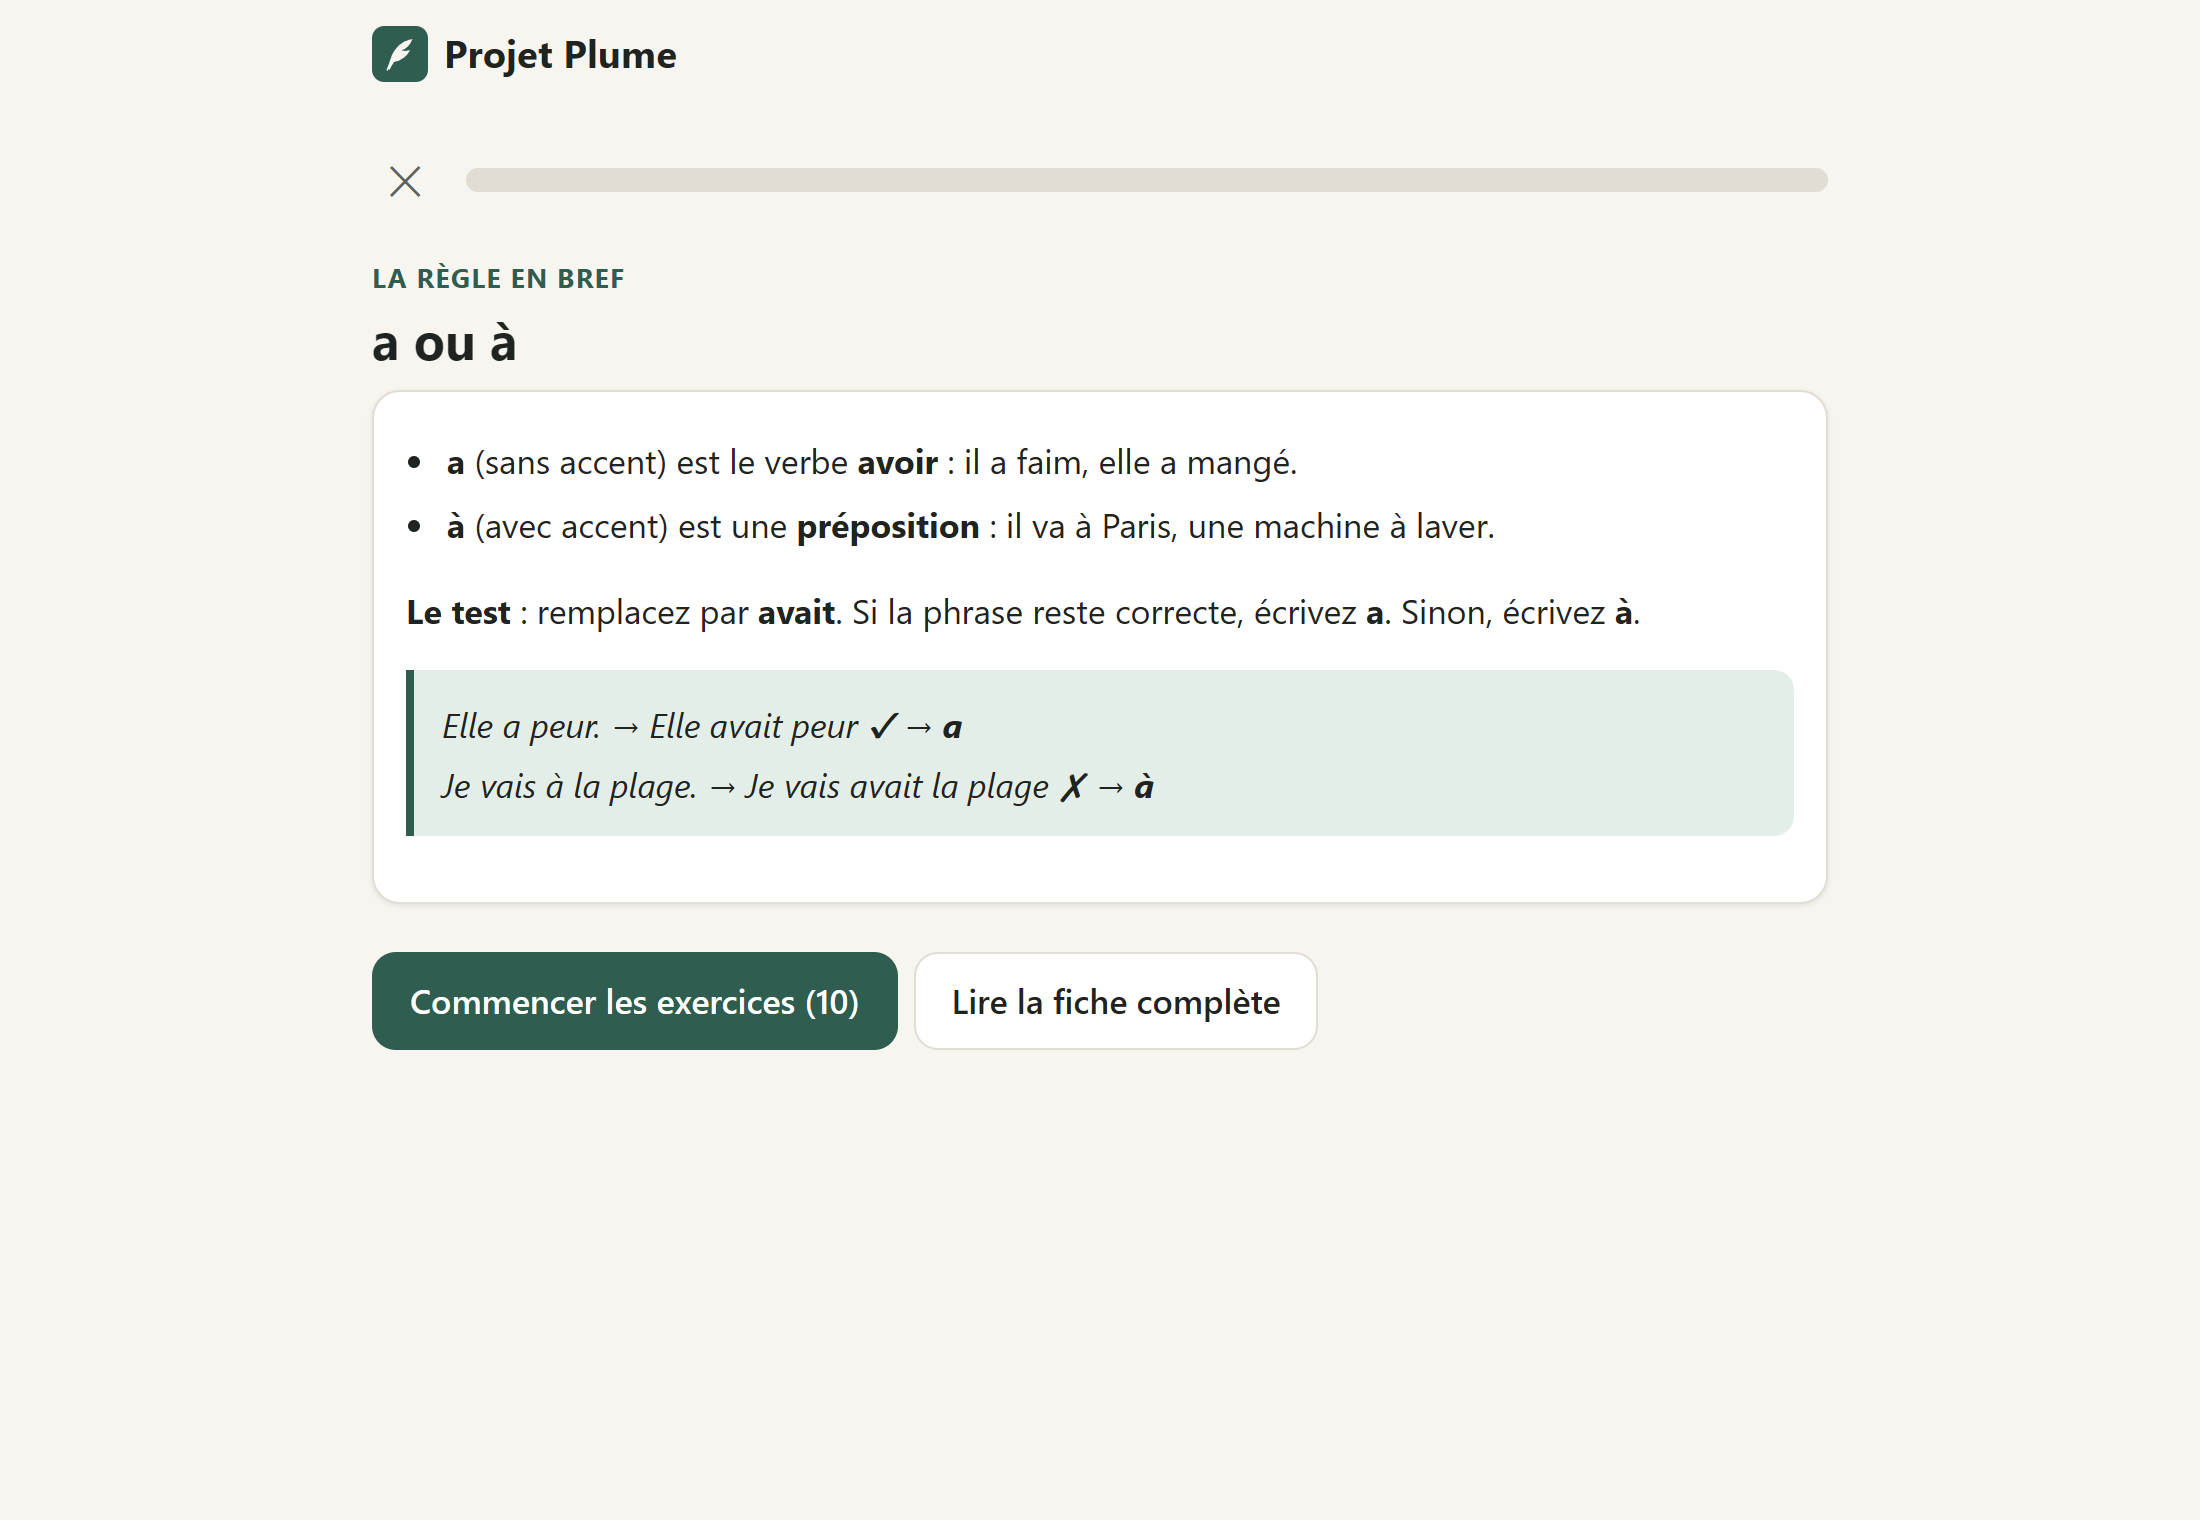
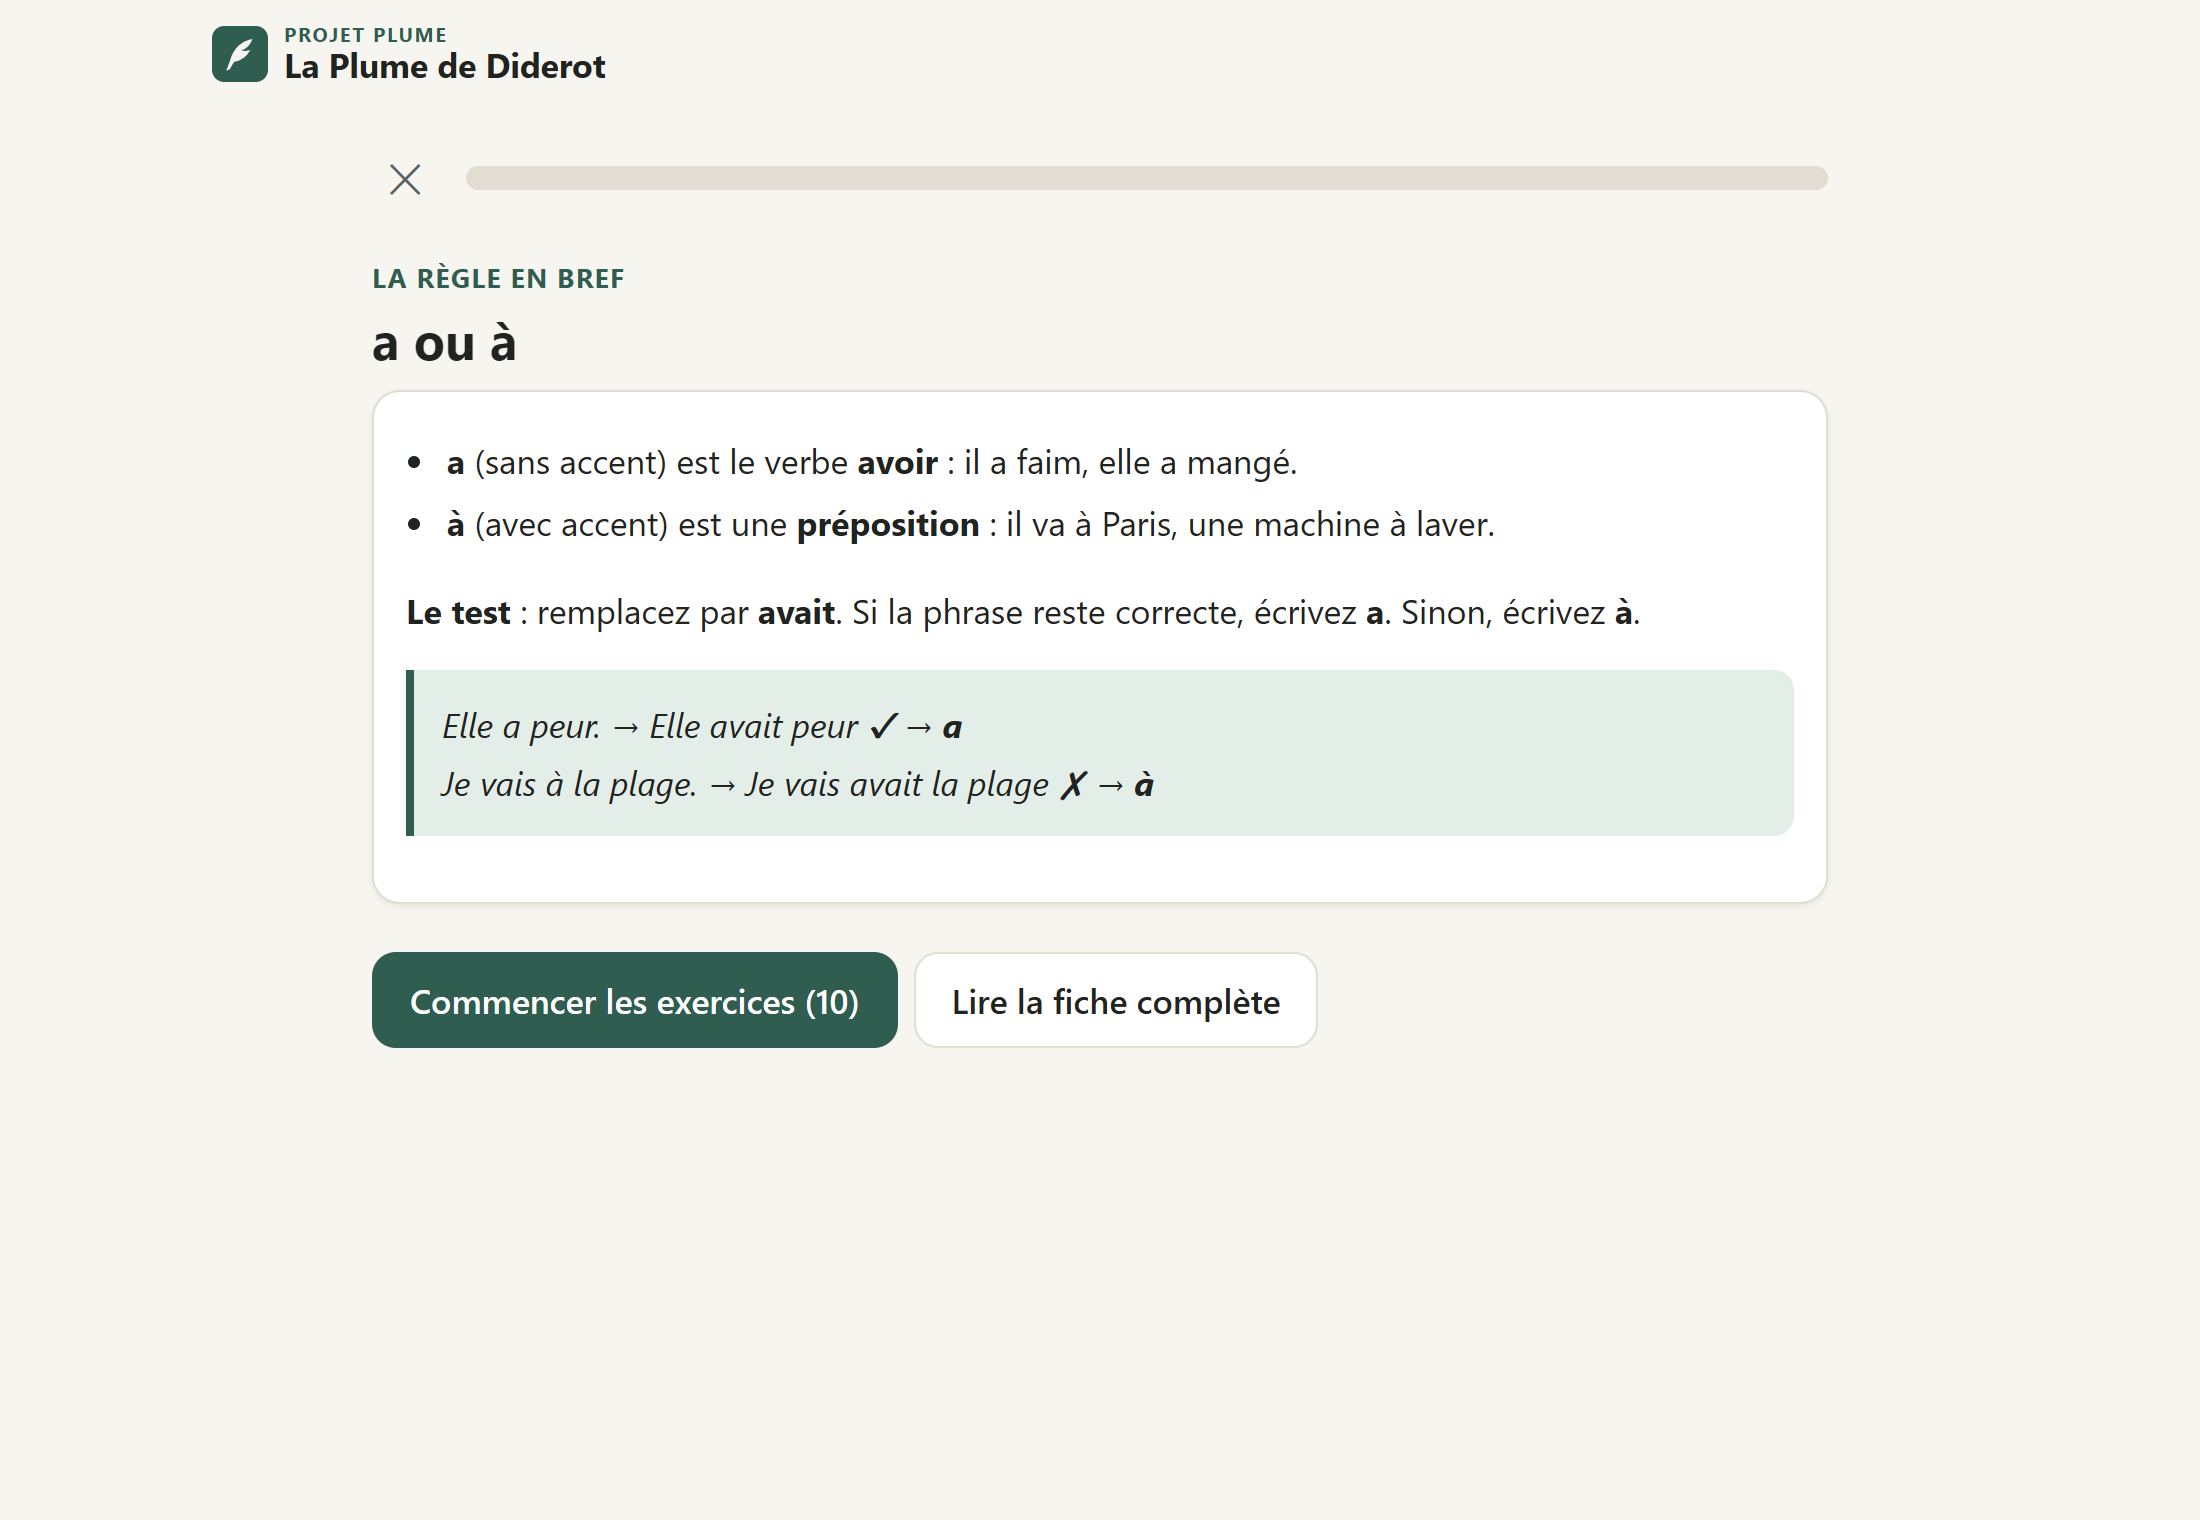
Nouveau nom : La Plume de Diderot, avec « Projet Plume » en surtitre
En-tête, titres des pages, partage (Open Graph, image), manifeste,
README et page du projet (avec « Pourquoi Diderot ? »). L'en-tête
s'élargit à 920 px sur grand écran pour garder les icônes du menu.

diff --git a/outils/generer_site.js b/outils/generer_site.js
@@ -90,14 +90,14 @@ page({
 // --- Cours ---
 page({
   chemin: "/cours",
-  titre: "Cours d'orthographe, de grammaire et de conjugaison — Projet Plume",
+  titre: "Cours d'orthographe, de grammaire et de conjugaison — La Plume de Diderot",
   description: "Tous les cours du Projet Plume par thème : homophones, accords, conjugaison, bien écrire. Fiches claires et exercices gratuits.",
   contenu: '<section class="cours"><h1>Cours</h1><p>Choisissez un thème. Chaque règle a une fiche et des exercices corrigés.</p>' + listeThemes() + "</section>",
 });
 STRUCTURE.categories.forEach((cat) => {
   page({
     chemin: "/cours/" + cat.id,
-    titre: cat.titre + " : règles et exercices — Projet Plume",
+    titre: cat.titre + " : règles et exercices — La Plume de Diderot",
     description: cat.description + " " + pluriel(reglesDe(cat).length, "règle") + " avec fiches et exercices gratuits.",
     contenu: '<section class="categorie"><nav class="ariane"><a href="/cours">Cours</a> › ' + esc(cat.titre) + "</nav><h1>" + esc(cat.titre) + "</h1><p>" + esc(cat.description) + "</p>"
       + cat.sous.map((s) => "<h2>" + esc(s.titre) + "</h2><ul>" + s.regles.map((id) => parId[id]).filter(Boolean).map(lienRegle).join("") + "</ul>").join("") + "</section>",
@@ -107,7 +107,7 @@ STRUCTURE.categories.forEach((cat) => {
 // --- Règles ---
 page({
   chemin: "/regles",
-  titre: "Toutes les règles d'orthographe et de grammaire — Projet Plume",
+  titre: "Toutes les règles d'orthographe et de grammaire — La Plume de Diderot",
   description: "Les " + REGLES.length + " fiches de règles du Projet Plume, classées par thème, à consulter librement.",
   contenu: '<section class="regles-index"><h1>Règles</h1><p>Toutes les fiches, à consulter sans faire d\'exercices.</p>'
     + STRUCTURE.categories.map((cat) => "<h2>" + esc(cat.titre) + "</h2>" + cat.sous.map((s) =>
@@ -125,7 +125,7 @@ REGLES.forEach((r) => {
     + (voisines.length ? "<h2>Règles liées</h2><ul>" + voisines.map(lienRegle).join("") + "</ul>" : "")
     + "</article>";
   const meta = {
-    titre: r.titre + " : règle et exercices — Projet Plume",
+    titre: r.titre + " : règle et exercices — La Plume de Diderot",
     description: (r.resume + " Fiche claire et " + pluriel(r.exercices.length, "exercice") + " corrigés, gratuits et sans inscription.").slice(0, 300),
     contenu,
   };
@@ -137,7 +137,7 @@ REGLES.forEach((r) => {
 // --- Pages de présentation ---
 page({ chemin: "/projet", titre: PAGES.projet.titre + " — le savoir libre, pour tous", description: PAGES.projet.description,
   contenu: '<article class="fiche page-projet">' + PAGES.projet.html + "</article>" });
-page({ chemin: "/progres", titre: PAGES.progression.titre + " — Projet Plume", description: PAGES.progression.description, indexable: false,
+page({ chemin: "/progres", titre: PAGES.progression.titre + " — La Plume de Diderot", description: PAGES.progression.description, indexable: false,
   contenu: '<section class="progres"><h1>Ma progression</h1>' + PAGES.progression.html + "</section>" });
 
 // --- Fichiers du site ---

diff --git a/contenu/pages.js b/contenu/pages.js
@@ -5,7 +5,7 @@
  */
 window.PLUME_PAGES = {
   accueil: {
-    titre: "Projet Plume — l'orthographe libre et gratuite",
+    titre: "La Plume de Diderot — l'orthographe libre et gratuite",
     description: "Entraînez-vous à l'orthographe, à la grammaire et à la conjugaison françaises gratuitement, sans compte ni publicité. Cours et exercices libres.",
     html: `<div class="presentation">
 <h1>Le savoir libre, pour tous</h1>
@@ -24,7 +24,7 @@ window.PLUME_PAGES = {
     description: "Le Projet Plume est un site libre et gratuit pour apprendre l'orthographe française : pas de compte, pas de publicité, aucune donnée collectée.",
     html: `<h1>Le Projet Plume</h1>
 <div class="fiche-texte">
-<p><strong>Le Projet Plume est un site libre et gratuit pour bien écrire le français.</strong> On y trouve des fiches de règles et des exercices d'orthographe, de grammaire et de conjugaison, du collège au niveau adulte.</p>
+<p><strong>La Plume de Diderot est le site du Projet Plume : un site libre et gratuit pour bien écrire le français.</strong> On y trouve des fiches de règles et des exercices d'orthographe, de grammaire et de conjugaison, du collège au niveau adulte.</p>
 
 <h2>Pourquoi ce projet ?</h2>
 <p>Bien écrire sert à tout : étudier, chercher un emploi, se faire comprendre. Ce savoir ne devrait pas dépendre d'un abonnement. Le Projet Plume part d'une idée simple : <strong>le savoir libre, pour tous</strong>.</p>
@@ -33,6 +33,9 @@ window.PLUME_PAGES = {
 <li><strong>Gratuit</strong> : tout est ouvert. Il n'y a ni abonnement, ni module payant, ni publicité.</li>
 <li><strong>Sans collecte de données</strong> : il n'y a pas de compte, pas de traceur, pas de statistiques de visite. Le site ne sait rien de vous.</li>
 </ul>
+
+<h2>Pourquoi « Diderot » ?</h2>
+<p>Au XVIII<sup>e</sup> siècle, Denis Diderot a dirigé avec d'Alembert l'<em>Encyclopédie</em>, qui voulait rassembler les connaissances de son temps et les mettre à la portée de tous. Le site lui emprunte cette idée : un savoir partagé, que chacun peut lire et enrichir.</p>
 
 <h2>Comment ça marche ?</h2>
 <ul>

diff --git a/gabarit.html b/gabarit.html
@@ -8,7 +8,7 @@
   <link rel="canonical" href="{{CANONIQUE}}">
   <meta name="robots" content="{{ROBOTS}}">
   <meta property="og:type" content="website">
-  <meta property="og:site_name" content="Projet Plume">
+  <meta property="og:site_name" content="La Plume de Diderot">
   <meta property="og:locale" content="fr_FR">
   <meta property="og:title" content="{{TITRE}}">
   <meta property="og:description" content="{{DESCRIPTION}}">
@@ -27,9 +27,9 @@
 </head>
 <body>
   <header class="barre">
-    <a href="/" class="logo" aria-label="Accueil">
+    <a href="/" class="logo" aria-label="La Plume de Diderot, accueil">
       <img src="/img/icone.svg" alt="" width="28" height="28">
-      <span>Projet Plume</span>
+      <span class="logo-texte"><span class="surtitre">Projet Plume</span><span class="logo-nom">La Plume de Diderot</span></span>
     </a>
     <nav id="onglets" class="onglets" aria-label="Navigation principale">
       <a href="/">Accueil</a>
@@ -48,7 +48,7 @@
   </main>
 
   <footer class="pied">
-    <p><strong>Projet Plume</strong> — le savoir libre, pour tous. Libre, gratuit, sans collecte de données.</p>
+    <p><strong>La Plume de Diderot</strong> · Projet Plume — le savoir libre, pour tous. Libre, gratuit, sans collecte de données.</p>
     <p><a href="/projet">Le projet</a> · <a href="/progres">Ma progression</a> · <a href="/COPYING">Licence GPL-3.0</a>{{GITHUB}}</p>
   </footer>
 

diff --git a/css/style.css b/css/style.css
@@ -59,6 +59,9 @@ main { max-width: 760px; margin: 0 auto; padding: 16px 16px 120px; outline: none
   max-width: 760px; margin: 0 auto; padding: 12px 16px;
 }
 .logo { display: flex; align-items: center; gap: 8px; font-weight: 700; font-size: 1.2rem; color: var(--texte); text-decoration: none; white-space: nowrap; flex: none; }
+.logo-texte { display: flex; flex-direction: column; line-height: 1.1; }
+.surtitre { font-size: .62rem; font-weight: 700; letter-spacing: .09em; text-transform: uppercase; color: var(--accent); }
+.logo-nom { font-size: 1.05rem; }
 .serie { font-weight: 600; white-space: nowrap; min-width: 3em; text-align: right; }
 
 /* Onglets : dans l'en-tête sur grand écran, en bas de l'écran sur mobile */
@@ -72,7 +75,8 @@ main { max-width: 760px; margin: 0 auto; padding: 16px 16px 120px; outline: none
 .onglet-icone { display: inline-flex; }
 .onglet-icone svg { display: block; }
 body.en-session .onglets { display: none; }
-@media (min-width: 720px) and (max-width: 879px) {
+@media (min-width: 960px) { .barre { max-width: 920px; } }
+@media (min-width: 720px) and (max-width: 959px) {
   .onglets a { padding: 8px 7px; gap: 4px; font-size: .9rem; }
   .onglet-icone { display: none; }
 }

diff --git a/outils/og.html b/outils/og.html
@@ -5,11 +5,12 @@
 html,body{margin:0;width:1200px;height:630px;overflow:hidden}
 body{background:#2f5d50;color:#f7f5f0;font-family:"Segoe UI",system-ui,sans-serif;display:flex;flex-direction:column;justify-content:center;padding:0 90px;box-sizing:border-box}
 .logo{display:flex;align-items:center;gap:24px;font-size:54px;font-weight:700}
+.nom{display:flex;flex-direction:column;line-height:1.1}.nom small{font-size:26px;letter-spacing:.12em;text-transform:uppercase;opacity:.8;font-weight:600;margin-bottom:6px}
 .logo img{width:96px;height:96px;border-radius:22px;background:#24483e}
 h1{font-size:84px;line-height:1.05;margin:44px 0 22px}
 p{font-size:38px;margin:0;opacity:.9}
 </style>
-<div class="logo"><img src="../img/icone.svg" alt="">Projet Plume</div>
+<div class="logo"><img src="../img/icone.svg" alt=""><span class="nom"><small>Projet Plume</small>La Plume de Diderot</span></div>
 <h1>Le savoir libre,<br>pour tous</h1>
 <p>Orthographe · grammaire · conjugaison — gratuit, sans compte ni publicité</p>
 </html>

diff --git a/js/app.js b/js/app.js
@@ -332,7 +332,7 @@
     document.getElementById("serie").textContent = s > 0 ? "🔥 " + s + " j" : "";
     var h1 = app.querySelector("h1");
     var t = h1 ? h1.textContent.trim() : "";
-    document.title = onglet === "accueil" || !t ? PAGES.accueil.titre : t + (/Projet Plume/.test(t) ? "" : " — Projet Plume");
+    document.title = onglet === "accueil" || !t ? PAGES.accueil.titre : t + (/Plume/.test(t) ? "" : " — La Plume de Diderot");
   }
 
   function barre(valeur) {

diff --git a/sw.js b/sw.js
@@ -1,6 +1,6 @@
 /* Projet Plume — mode hors ligne (GPL-3.0-or-later).
  * Changez VERSION à chaque mise à jour pour rafraîchir le cache. */
-var VERSION = "plume-v11";
+var VERSION = "plume-v12";
 var FICHIERS = [
   "/",
   "/css/style.css",

diff --git a/README.md b/README.md
@@ -1,4 +1,6 @@
-# Projet Plume — orthographe libre
+# La Plume de Diderot
+
+*Projet Plume — l'orthographe libre et gratuite*
 
 **Essayer en ligne : https://projet-plume.pages.dev**
 
